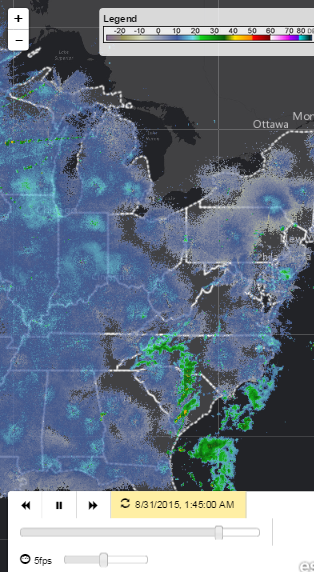
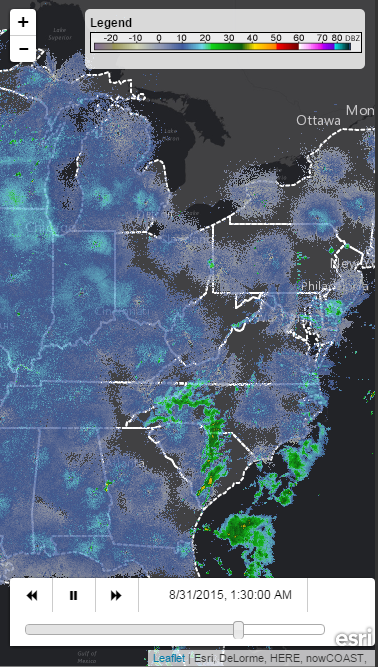
Better image remove time slider

diff --git a/js/mobileweather.js b/js/mobileweather.js
@@ -13,7 +13,8 @@ var map = L.map('map', {
                 buffer: 10,
                 transitionTime: 200,
                 loop: true
-            }
+            },
+            speedSlider: false
         },
     timeDimensionOptions: {
         timeInterval: "PT2H/" + endDate.toISOString(),
